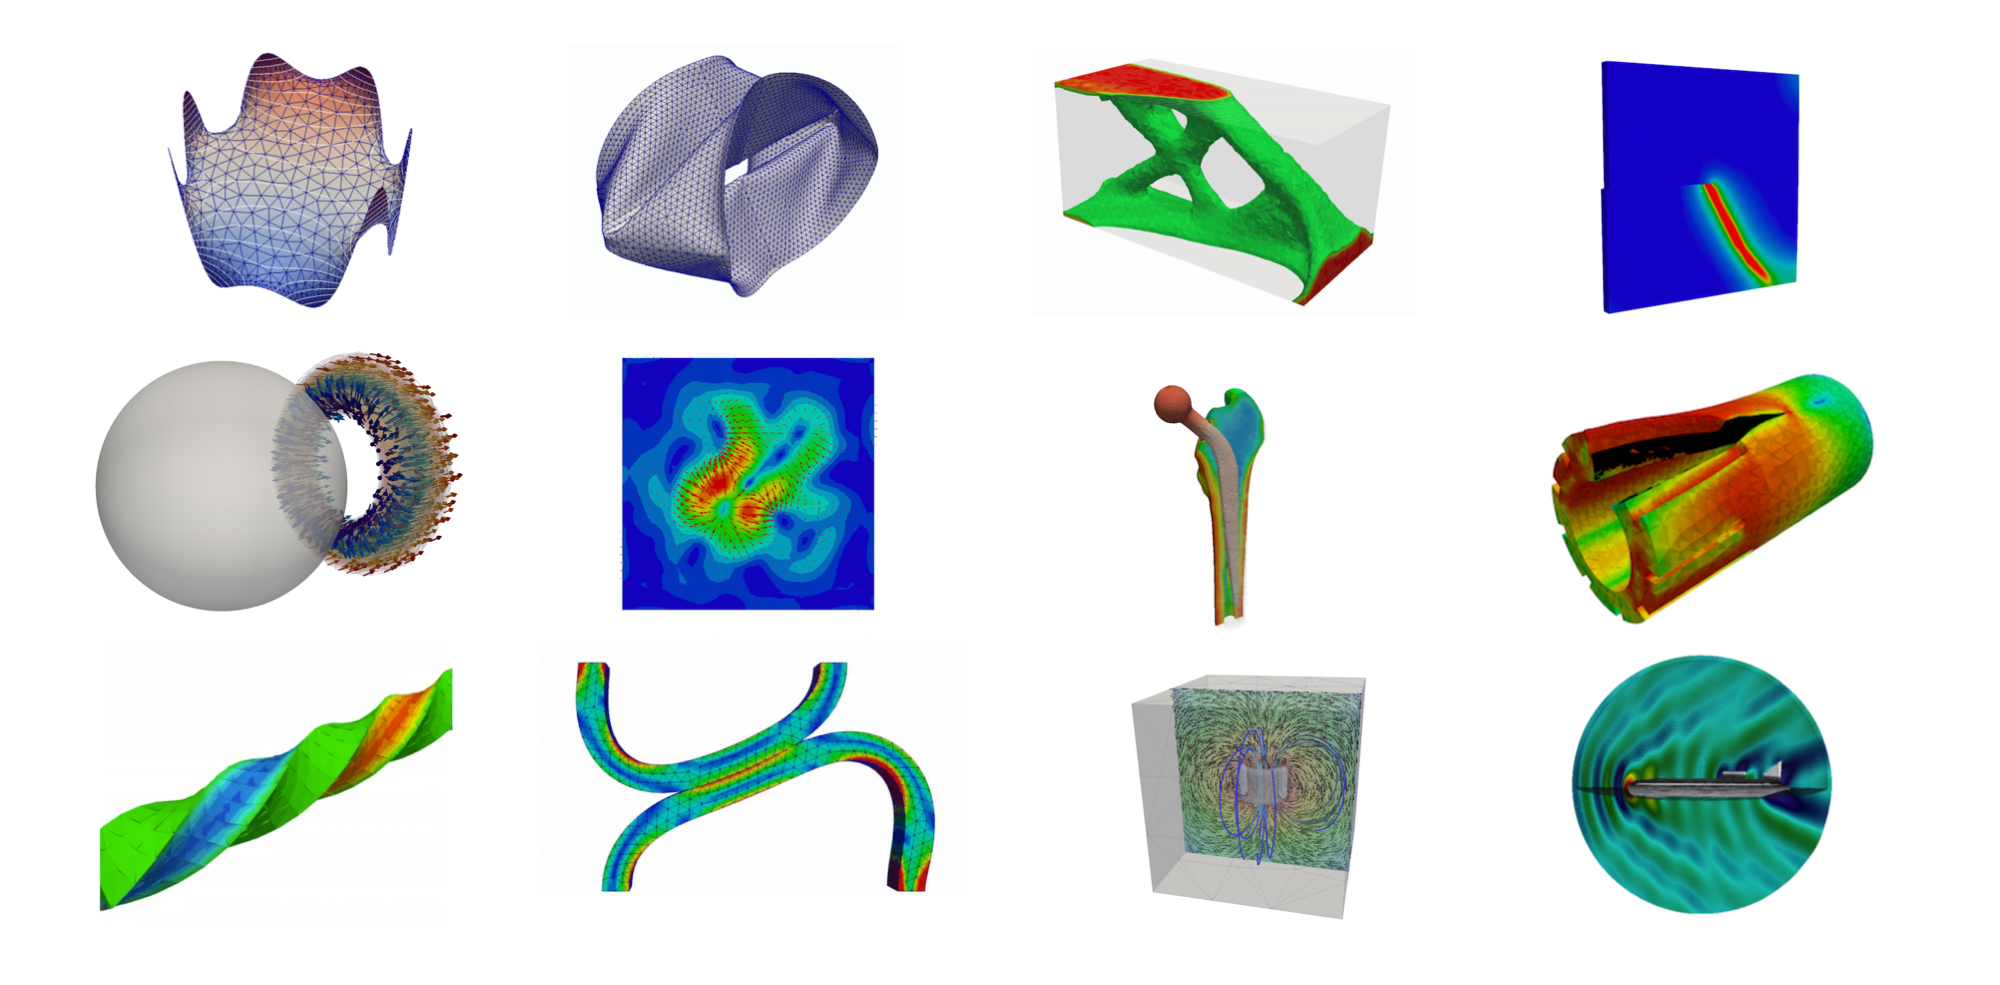
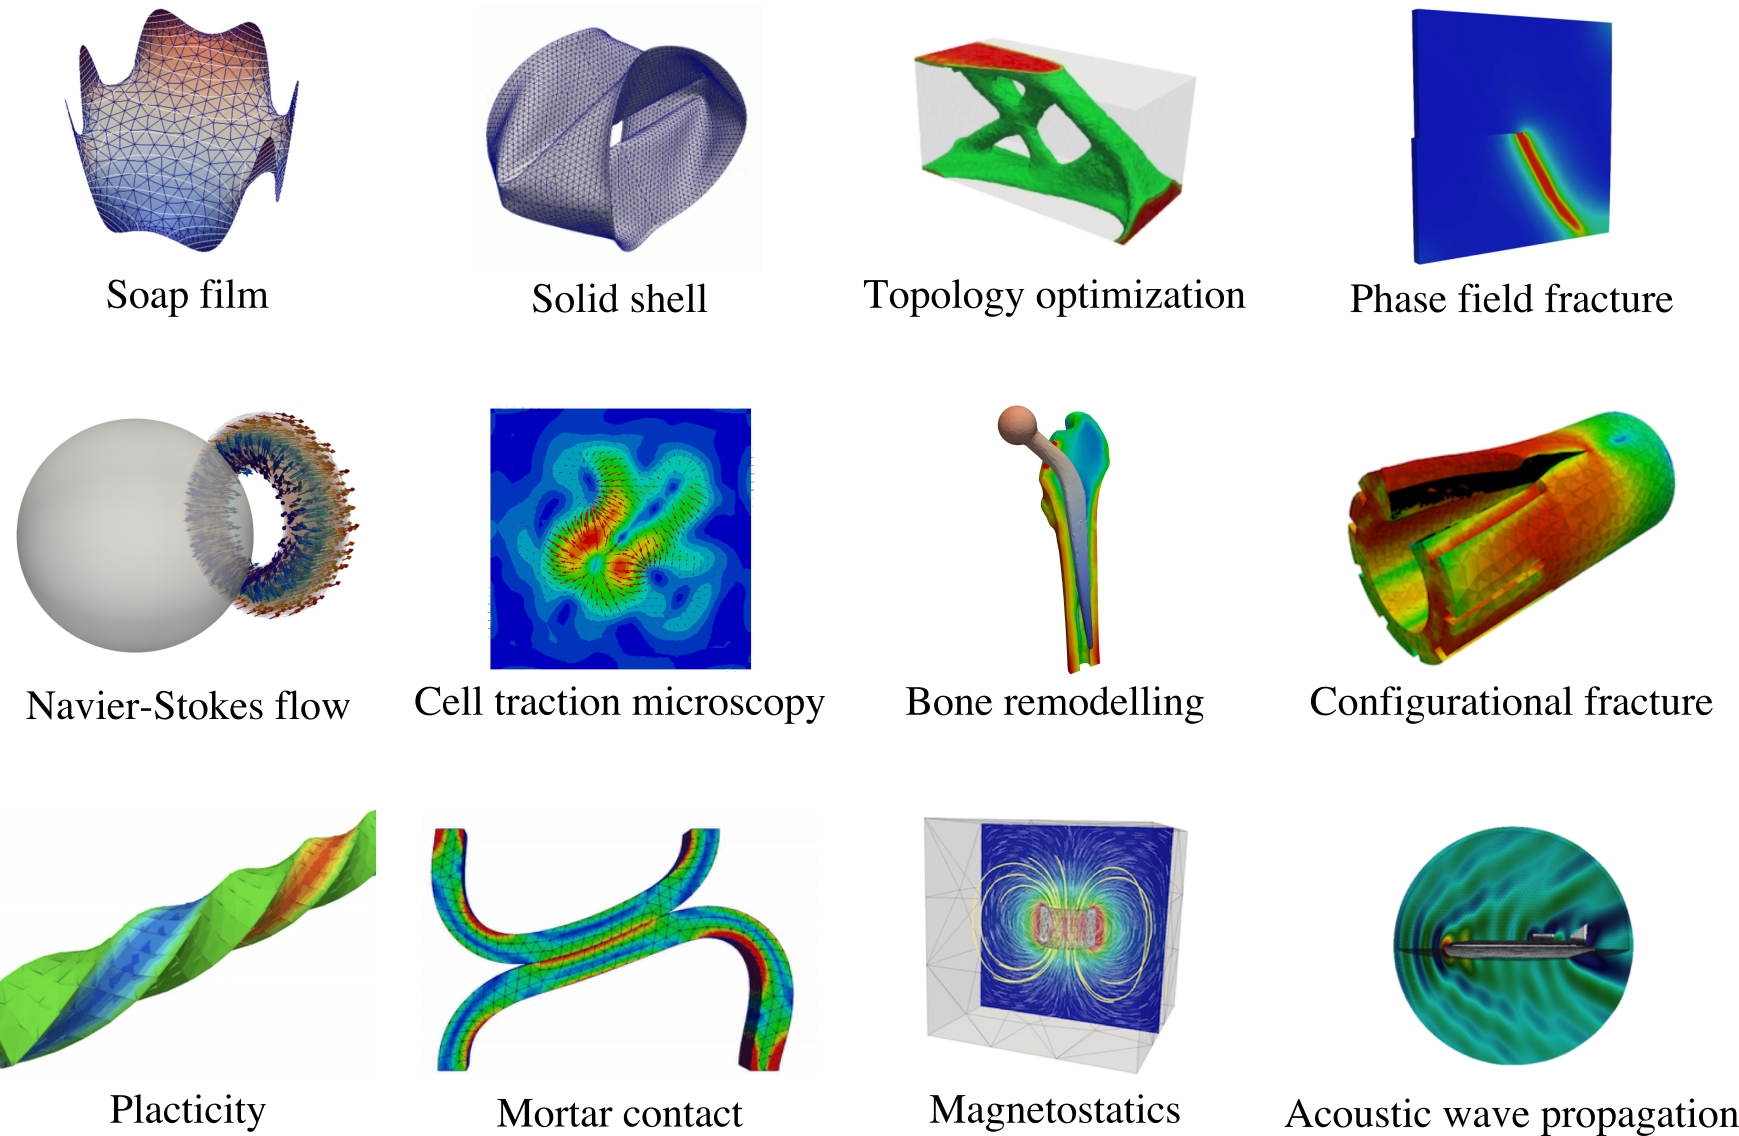
Added Introduction, expanded Summary, Updated figure [skip ci]

diff --git a/media/paper.md b/media/paper.md
@@ -40,25 +40,120 @@ affiliations:
    index: 2
  - name: School of Civil Engineering & Geosciences, Newcastle University, Newcastle upon Tyne, NE1 7RU
    index: 3
-date: 15 April 2019
+date: 25 April 2019
 bibliography: paper.bib
 ---
 
 
-# Introduction
- ```MoFEM``` (Mesh-Oriented Finite Element Method) is a C++ library for managing
-  complexities related to the finite element method, a popular approach for solving
-  partial differential equations (PDEs) arising in various physical problems and 
-  engeeniring applications. The main purpose behind the development of 
-  ```MoFEM``` is to enable rapid implementation of the finite element method 
-  for solving complex multi-physics and multi-domain engeneering-related problems 
-  utilizing modern hierarchical and heterogeneous approximation approaches.  
- 
- # Summary
+# Introduction and motivation
 
+ `MoFEM` (Mesh-Oriented Finite Element Method) is a C++ library for managing
+ complexities related to the finite element method, a popular numerical approach
+ for solving partial differential equations (PDEs) arising in various physical
+ problems and engineering applications. `MoFEM` is developed to provide free and
+ open source finite element codes, incorporating modern approximation approaches and data structures, for engineers, students and academics.
+
+  The need for solutions to increasingly complex problems demands the control
+  over numerical errors; otherwise, we will be unable to distinguish
+  discretization artefacts from the real physical phenomena. A brute force
+  approach based on a pure *h-adaptivity*, relying on the power of parallel
+  computing, is leading to a low polynomial convergence rate and, therefore, is
+  insufficient to have total control over numerical errors. A more sophisticated
+  approach was paved by Ivo Babuska et al. [@babuska1992version], who showed
+  that if one can increase at the same time the polynomial order and the mesh
+  density, i.e. employ *hp-adaptivity*, the exponential convergence is possible,
+  which is seen as the 'Holy Grail' of the finite element method.
+
+  However, raising the order of approximation comes with a cost, increasing the
+  algebraic solver time and the matrix assembly time. Unfortunately, there is no
+  universal solution to tackle these two difficulties. To reduce the algebraic solver
+  time, one way is to use multi-grid solvers, which can work more efficiently if
+  a hierarchical approximation base is available, being ideal for elliptic
+  problems such as solid elasticity. However, for hyperbolic problems, e.g.
+  acoustic wave propagation, the efficiency bottleneck could be in the time of
+  the matrix assembly. For that case heterogeneous approximation bases, e.g.
+  Bernstein-Bézier base [@ainsworth2011bernstein], allowing for a fast numerical
+  integration, could be an optimal solution.
+
+  The control of numerical errors is possible if we can estimate the error to
+  drive *hp-adaptivity* algorithm. This error estimator needs to be as much
+  efficient as possible, and one possible solution is to use mix finite element
+  formulations, where error evaluators become a part of the formulation.
+  However, the stability of such elements is an issue, which can be achieved by
+  the appropriate use of a combination of H1, H-curl, H-div and L2 spaces.
+  Mix-formulations have other advantages, such as reduced regularity of
+  approximation, or the resulting sparse system of equations, which can be
+  exploited by problem-tailored solution algorithms.
+
+  `MoFEM` is designed to provide all discussed above solutions for
+  *hp-adaptivity*, enabling rapid implementation of the finite element method
+  for solving complex multi-domain, multi-scale and multi-physics engineering
+  freedom (DOFs), finite elements, matrix assembly, etc.
+  
+
+# Basic design of MoFEM
+
+  Modern finite element software is an 'ecosystem' managing various complexities
+  related to mesh and topology, sparse algebra and approximation, integration
+  and dense tensor algebra at the integration point level. `MoFEM` has not
+  developed and will not develop all these capabilities from scratch. Instead,
+  `MoFEM` integrates advanced scientific computing tools for sparse algebra from [PETSc](https://www.mcs.anl.gov/petsc/)
+  (Portable, Extensible Toolkit for Scientific Computation, components for handling mesh and topology from [MOAB](https://press3.mcs.anl.gov/sigma/moab-library/)
+  (Mesh-Oriented Database) and data structures from [Boost libraries](https://www.boost.org). Finally, `MoFEM` core
+  library is developed to manage complexities directly related to the finite element method. Therefore, each
+  part of this ecosystem has its own design objectives and appropriate programming tools from a
+  spectrum of solutions can be selected. Resilience of
+  `MoFEM` ecosystem is ensured since the underpinning components have
+  sustainable funding, dynamic and established group of developers and
+  significant user base.
+
+  <!--  MoFEM makes
+  PETSc integral part of code by extending PETSc by DMMOFEM interface (several
+  other functions work directly on PETSc objects). MoAB from other hand is
+  internal data storage.  -->
+
+  <!--  MoFEM focuses attention on complexities related to finite element
+  technology and uses abstractions like field entity, DOF (degree of freedom),
+  finite element and problem. -->
+
+  <!-- MoFEM software utilises recent advances
+  in the finite element technology and modern data structures, enabling the efficient
+  solution of complex, multi-domain, multi-scale and multi-physics problems.  
+  -->
+
+  Traditional finite element codes are element-centric (type of an element
+  defines the approximation space and base) and therefore cannot exploit the
+  potential of emerging approximation methods. On the contrary, in `MoFEM` the
+  design of data structures for approximation of field variables is independent
+  of the specific finite element (e.g. Lagrangian, Nedelec, Rivart-Thomas),
+  since finite element is constructed by a set of lower dimension entities on
+  which the approximation fields are defined. Therefore, different approximation
+  spaces (H1, H-curl, H-div, L2) can be arbitrarily mixed in a finite element to
+  create new capabilities for solving complex problems efficiently (note that
+  the approximation space defines adjacency of DOFs on entities, while the
+  number of DOFs on entity is independent on approximation base).
+  
+ <!--  Moreover, the base on entity is a trace of the base on element,
+  and opposite relation works, base on entity is extruded into element. -->
+
+  `MoFEM` data structures allow to easily enrich approximation fields or modify
+  base functions, e.g. to resolve singularity at a crack front. Applying this
+  technology, it is effortless to construct transition elements between domains
+  with different problem formulation and physics (e.g. from two-field
+  mix-formulation to single-field formulation), or elements with anisotropic
+  approximation order (e.g. in solid-shells with arbitrary high-order on shell
+  surface and arbitrary low-order through thickness). This approach also sets
+  the benchmark in terms of how finite element codes are implemented,
+  introducing a concept of user-defined data operators acting on fields that are
+  associated with entities (vertices, edges, faces and volumes) rather on the
+  finite element directly. Such an approach simplifies code writing, testing and
+  validation, making the code resilient to bugs.
+
+<!-- 
  ```MoFEM``` is a finite element analysis code tailored for the solution of 
  multi-physics problems with arbitrary levels of approximation, different 
  levels of mesh refinement and optimised for high-performance computing. 
+
  It is designed to be able to manage complexities related to hierarchical basis 
  functions (Legendre, Lobatto or Jacobi polynomials), providing heterogeneous 
  approximation of an arbitary order for L2, H1, H-div and H-curl spaces. 
@@ -66,31 +161,36 @@ bibliography: paper.bib
  [Boost Multi-index Containers](https://www.boost.org/doc/libs/1_62_0/libs/multi_index/doc/index.html), 
  [MOAB](https://press3.mcs.anl.gov/sigma/moab-library/) (Mesh Oriented Database) 
  and [PETSc](https://www.mcs.anl.gov/petsc/) (Portable, Extensible Toolkit 
- for Scientific Computation). ```MoFEM``` is developed in C++ and it is an 
+ for Scientific Computation). 
+  -->
+ 
+ `MoFEM` is developed in C++ and it is an 
  open source software under the 
  [GNU Lesser General Public License](https://www.gnu.org/licenses/lgpl.html). 
- ```MoFEM``` can read and write a number of mesh file formats using functionality
-provided by [MOAB](https://press3.mcs.anl.gov/sigma/moab-library/). Furthemore,
- it has full support for [CUBIT/TRELIS](https://www.csimsoft.com/trelis.jsp),
-[TetGEN](http://wias-berlin.de/software/index.jsp?id=TetGen&lang=1),
-[Salome-Meca](https://www.code-aster.org/spip.php?article303), 
-[Gmsh](http://gmsh.info) for pre-processing and [ParaView](https:www.paraview.org) for post-processing.
+ `MoFEM` can read and write a number of mesh file formats using functionality
+  provided by [MOAB](https://press3.mcs.anl.gov/sigma/moab-library/). Furthemore,
+  it has full support for [CUBIT/TRELIS](https://www.csimsoft.com/trelis.jsp),
+  [TetGEN](http://wias-berlin.de/software/index.jsp?id=TetGen&lang=1),
+  [Salome-Meca](https://www.code-aster.org/spip.php?article303), 
+  [Gmsh](http://gmsh.info) for pre-processing and [ParaView](https:www.paraview.org) for post-processing.
 
+# Examples of user modules
 
-```MoFEM``` is created with the financial support of the Royal Academy of Engineering and EDF Energy to solve a problem of crack propagation in the nuclear graphite [@kaczmarczyk2014three],[@kaczmarczyk2017energy]. Over the time the domain of applications expanded to include computational homogenisation (DURACOMP EPSRC Project EP/K026925/1), [@ullah2019unified],[@zhou2017stochastic],[@ullah2017multi] bone remodelling and fracture (Kelvin Smith Scholarship), modelling of the gels reology and acoustics problems. Moreover, ```MoFEM``` includes an extensive library of example applications, such as soap film, solid shell, topology optimisation, phase field fracture, Navier-Stokes flow, cell traction microscopy, bone remodelling, configurational fracture , plasticity, mortar contact and magnetostatics.
+  MoFEM core library provides functionality for developing user modules where applications for particular finite elements or problems are implemented. User module is an independent repository, private or public and independently managed by its owner.
 
-# Example users modules
+  `MoFEM` is created with the financial support of the Royal Academy of Engineering and EDF Energy to solve a problem of crack propagation in the nuclear graphite [@kaczmarczyk2014three],[@kaczmarczyk2017energy]. Over the time the domain of applications expanded to include computational homogenisation (DURACOMP EPSRC Project EP/K026925/1), [@ullah2019unified],[@zhou2017stochastic],[@ullah2017multi] bone remodelling and fracture (Kelvin Smith Scholarship), modelling of the gels reology and acoustics problems. Moreover, ```MoFEM``` includes an extensive library of example applications such as soap film, solid shell, topology optimisation, phase field fracture, Navier-Stokes flow, cell traction microscopy, bone remodelling, configurational fracture, plasticity, mortar contact, magnetostatics and acoustic wave propagation.
 
-Users modules implemented with ``MoFEM``.
-![Example modules.](mofem_modules_examples.png)
-Example results of (starting from top left): soap film, solid shell, topology optimisation,
-phase field fracture, navier stokes, cell traction microscopy, bone remodelling, 
-configurational fracture, plasticity, mortar contact, magnetostatics, acoustic wave.
-
+  User modules implemented with `MoFEM`:
+  ![Example modules.](mofem_modules_examples.png)
+  <!-- 
+  Example results of (starting from top left): soap film, solid shell, topology optimisation,
+  phase field fracture, navier stokes, cell traction microscopy, bone remodelling, 
+  configurational fracture, plasticity, mortar contact, magnetostatics, acoustic wave.
+ -->
 # Acknowledgements
-```MoFEM``` developement is supported by EDF Energy Nuclear Generation Ltd 
-(grant no. 4840360333), The Royal Academy of Engineering (grant no. 
-RCSRF1516\2\18), DURACOMP EPSRC Project (EP/K026925/1) and Kelvin Smith
- Scholarship programme at University of Glasgow.
+  `MoFEM` development is supported by EDF Energy Nuclear Generation Ltd 
+  (grant no. 4840360333), The Royal Academy of Engineering (grant no. 
+  RCSRF1516\2\18), DURACOMP EPSRC Project (EP/K026925/1) and Kelvin Smith
+  Scholarship programme at University of Glasgow.
 
 # References
